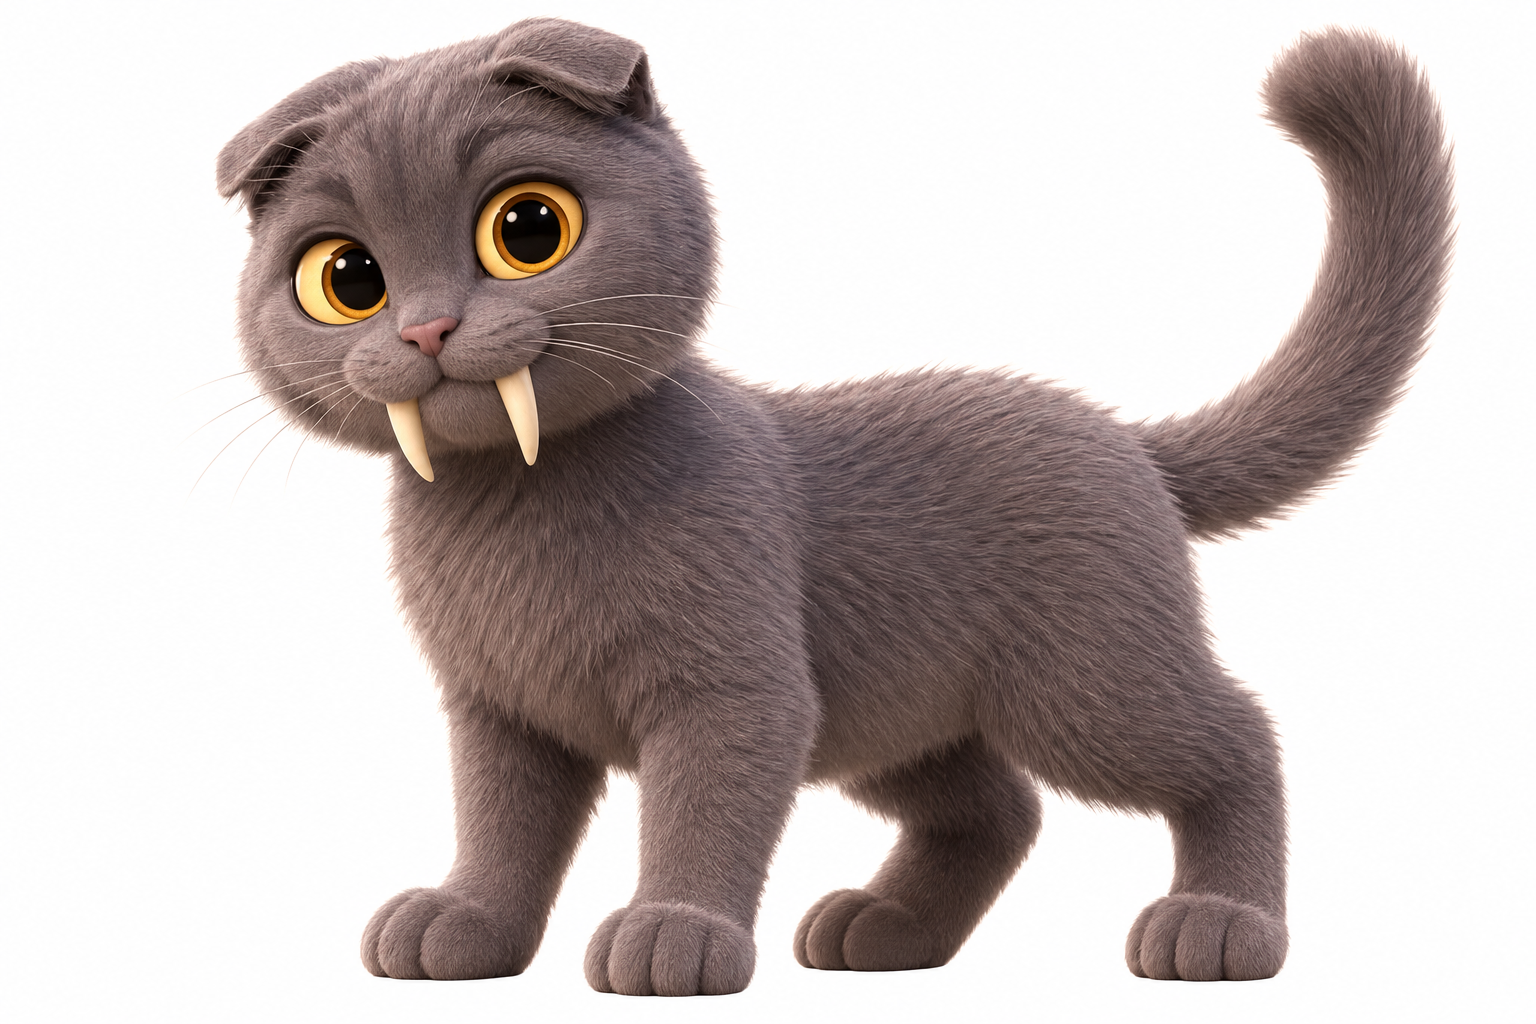
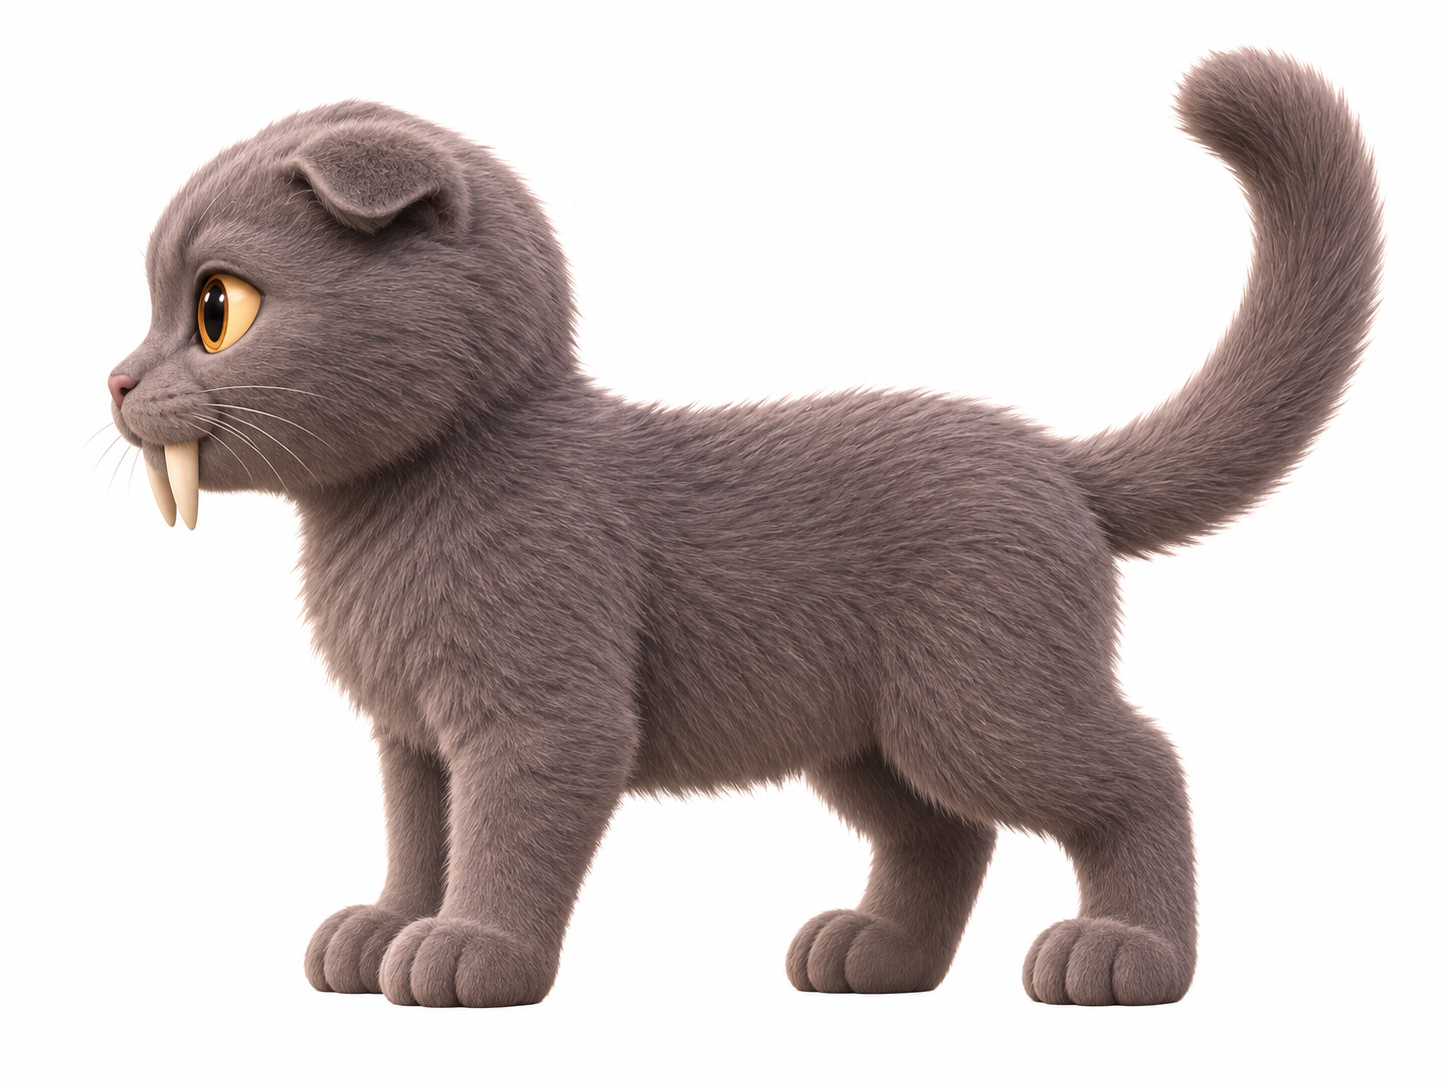
Safety checkpoint: Fix 3.1 plan + new sabertooth concept before building

diff --git a/TODO.md b/TODO.md
@@ -24,9 +24,51 @@ in `Docs/Design/design-decisions.md`)
 - Publish a release every round.
 
 ---------------------------------------------------------------------------
-Current round: none yet. Round 3 is delivered (below); its plan is in
-`TODO-ARCHIVE.md`. Next: the Ice Age as the first real world (the planning chat
-writes the round here).
+Current round — Fix 3.1: sabertooth Kira's face (target 0.3.1)
+Round 3's plan is in `TODO-ARCHIVE.md`. Next after this fix: the Ice Age as the
+first real world (the planning chat writes it here).
+
+**Problem (Dan, 2026-11-09): "Kira's face is messed up in the sabertooth form."**
+Planning chat's diagnosis from `Data/screenshots/round2/kira_rig/kira_sabertooth_idle.png`:
+the concept sheet had her head turned hard toward the viewer, Meshy built the
+head that way, and the rig's counter-turn (Round 2, capped 45 deg) twists the
+face: eyes skewed and cross-eyed, fangs splayed outward. Home Kira looks fine
+(head only slightly turned). Fixing it with more bone tricks won't hold up, so
+the fix is a new model from a straight-headed concept.
+
+1. **New concept (Dan):** Dan makes a new sheet from the prompt below and saves
+   it as `SourceArt/Concepts/kira_sabertooth.png` (keep the old one as
+   `kira_sabertooth_v1.png`). Code checks it before using it: head in line with
+   the body (looking the way she walks), ears folded, mouth closed with both
+   fangs straight down, all paws and tail in frame. If it fails, stop and say
+   exactly why.
+   **Done (2026-11-09):** Dan made it; the planning chat checked it and saved it
+   (1448 x 1086; old one is `kira_sabertooth_v1.png`). It passes. One note: her
+   fur is a warmer, slightly brownish gray than home Kira's cooler gray. Match
+   the sabertooth's fur color to home Kira's texture in the clean-up (item 2)
+   so she's the same cat in both forms.
+2. **Meshy + clean-up** as in Round 2, then the same Blender rig (`kira_rig.py`,
+   no ear bones), **with no head counter-turn** (remove it for this form; check
+   it isn't needed for home Kira either, and keep hers if it is).
+3. **Previews of the face:** front, side and 3/4 close-ups of the head in idle,
+   run and attack, plus an exe shot from the player's view. Look at them and
+   report: both eyes looking the same way, face not stretched, fangs straight
+   down and inside the lip line. Keep the old model as fallback.
+4. Build, check, publish 0.3.1, update `TODO.md` / `CLAUDE.md`, clean up.
+
+Prompt for Dan's image tool (planning chat, 2026-11-09):
+> Pixar-style 3D render of Kira, a tiny gray Scottish Fold kitten transformed
+> into a baby saber-toothed cat. Full body, side view, standing on all four
+> legs, head facing straight ahead in line with her body (looking where she is
+> walking, NOT turned toward the camera), tail up and away from the body.
+> Two small white saber fangs pointing straight down from the upper lip, mouth
+> closed. Folded-down Scottish Fold ears that lie flat and forward, never
+> raised. Solid gray fur over the entire body with absolutely no white fur or
+> markings. Golden-amber eyes. Plain white background, soft even light, no
+> ground shadow, whole body in frame with space around it, at least 1536 px wide.
+Negative: `head turned toward camera, looking at viewer, open mouth, cropped,
+cut off paws, cut off tail, raised ears, pointed ears, white fur, multiple
+views, props, text, watermark, ground shadow`.
 ---------------------------------------------------------------------------
 
 ---------------------------------------------------------------------------
